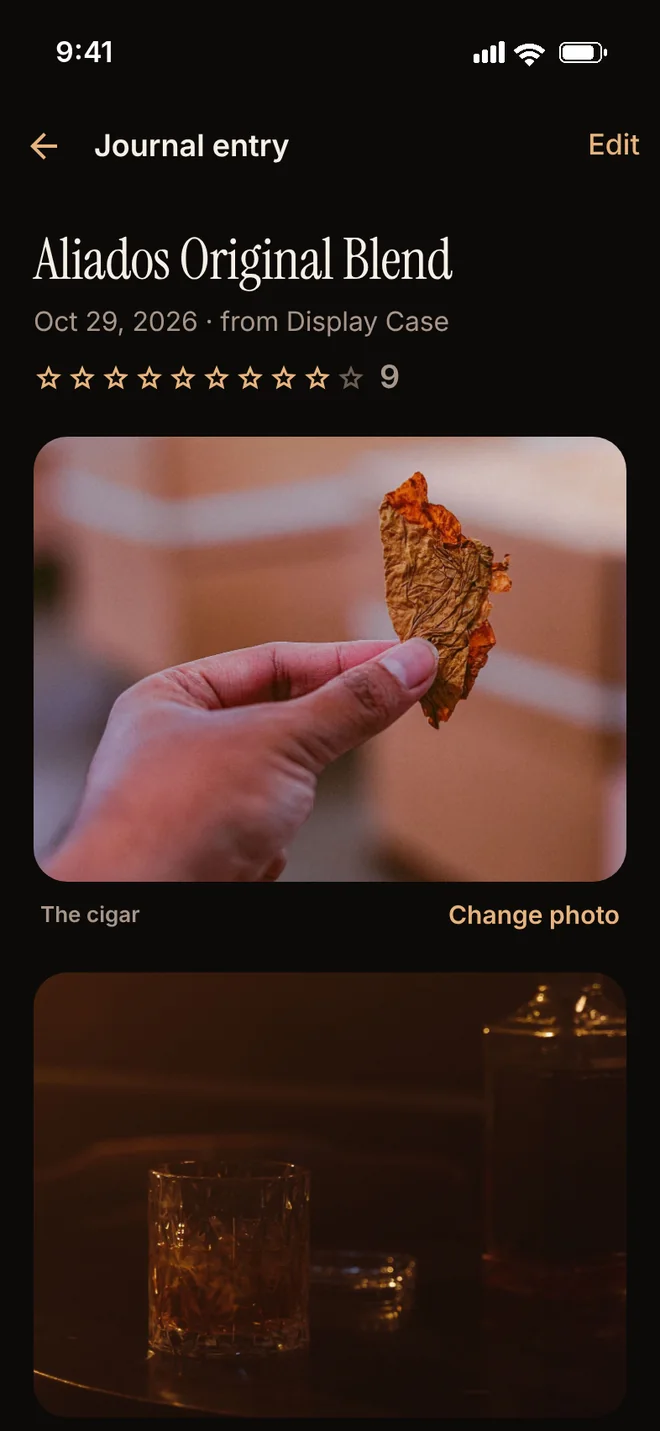
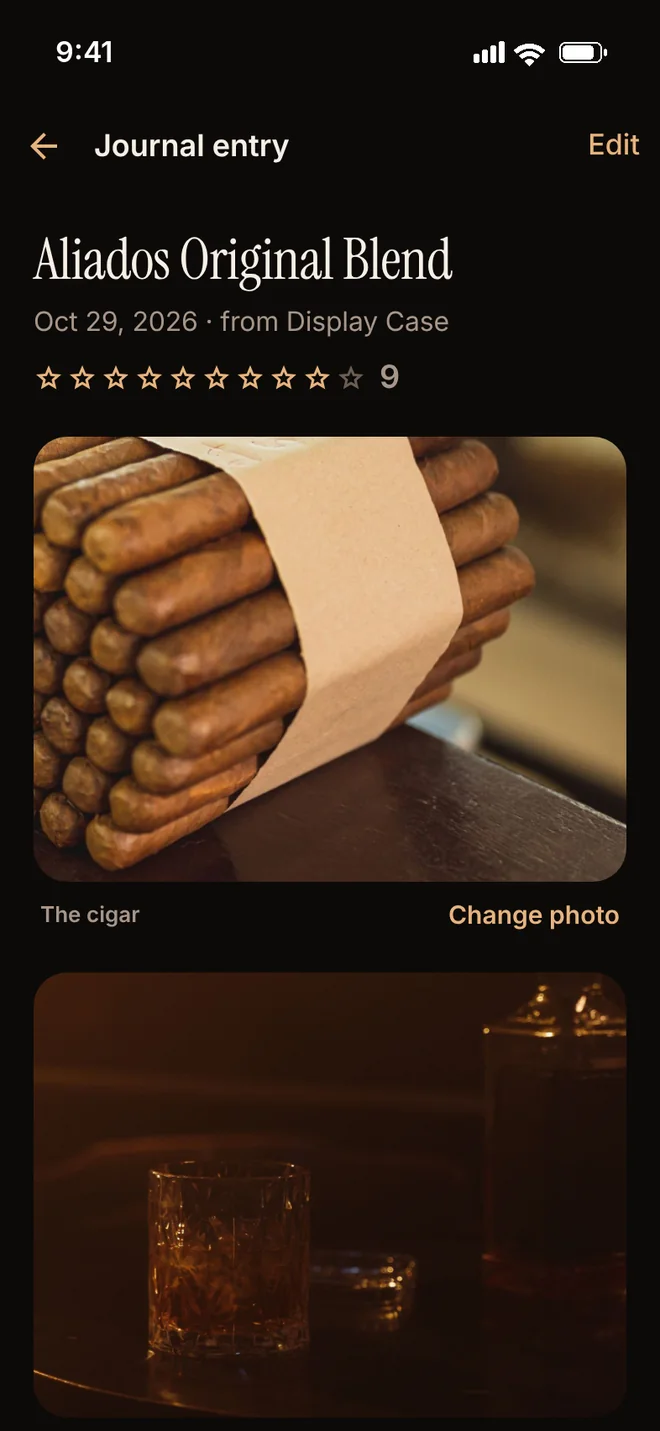
A cigar, not a leaf, in the journal picture
The journal screen now shows cigars in their bundle, and the tobacco
field sits behind the figures, where a hand holding a dry leaf looked
like a nacho chip.

Claude-Session: https://claude.ai/code/session_01Cxm2QUaSCzCSzNGBt6UwNb

Changed region(s): [[0.0303, 0.3075, 0.9697, 0.615]]

diff --git a/index.html b/index.html
@@ -159,7 +159,7 @@
     </section>
 
     <section class="section photo-band" aria-labelledby="figures-title">
-      <div class="bg" data-parallax><img src="assets/photos/leaf-in-hand.jpg" alt="" width="1800" height="1200" loading="lazy"></div>
+      <div class="bg" data-parallax><img src="assets/photos/field.jpg" alt="" width="1600" height="1040" loading="lazy"></div>
       <div class="wrap">
         <div class="section-head center">
           <p class="overline reveal">Built on the makers' own catalogs</p>

diff --git a/assets/photos/CREDITS.md b/assets/photos/CREDITS.md
@@ -5,13 +5,13 @@ free to use on a website, no credit required; not to be sold unaltered or
 used to suggest that a person or brand shown endorses Cigar Locker. Chosen
 2026-10-29 for the redone site: cigars at rest and tobacco only, never one
 being smoked, and no readable brand. Shrunk for the web, hidden details
-stripped. The phone screens in `../screens` are the app's own (the demo,
+stripped. A hand holding a dry leaf was taken out the same day (his word: it looked like a nacho chip). The phone screens in `../screens` are the app's own (the demo,
 without his photos, which stay private).
 
 | File | Shows | Photographer | Source |
 |---|---|---|---|
 | bundles.jpg | Paper-banded bundles of cigars on a counter | Thibault Luycx | https://www.pexels.com/photo/stacks-of-raw-packed-cigars-in-fabric-3975067/ |
 | leaves.jpg | Dried tobacco leaves, close up | Mark Stebnicki | https://www.pexels.com/photo/a-close-up-of-dried-tobacco-leaves-27793718/ |
-| leaf-in-hand.jpg | A hand holding a dry tobacco leaf | Afif Kusuma | https://www.pexels.com/photo/a-person-holding-a-dry-tobacco-leaf-8804298/ |
+| field.jpg | A tobacco field at harvest | John Lambeth | https://www.pexels.com/photo/scenic-view-of-a-tobacco-farm-2888962/ |
 | evening.jpg | A glass and a bottle on a dark table | cottonbro studio | https://www.pexels.com/photo/a-glass-and-whiskey-on-the-table-9419353/ |
 | wood.jpg | Dark wood grain | Karolina Grabowska (Kaboompics) | https://www.pexels.com/photo/dark-wood-texture-4709011/ |
